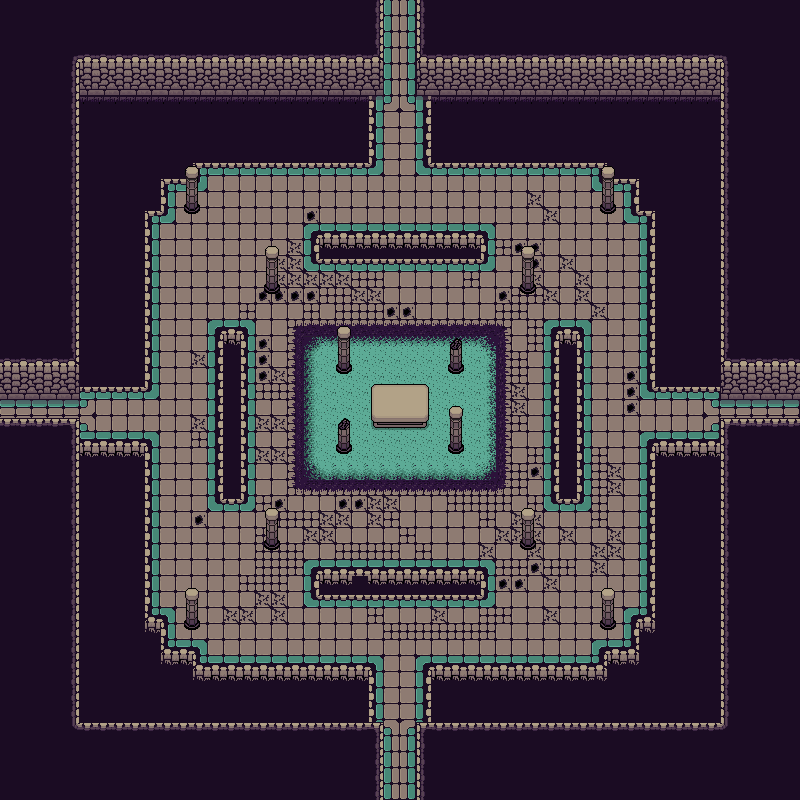
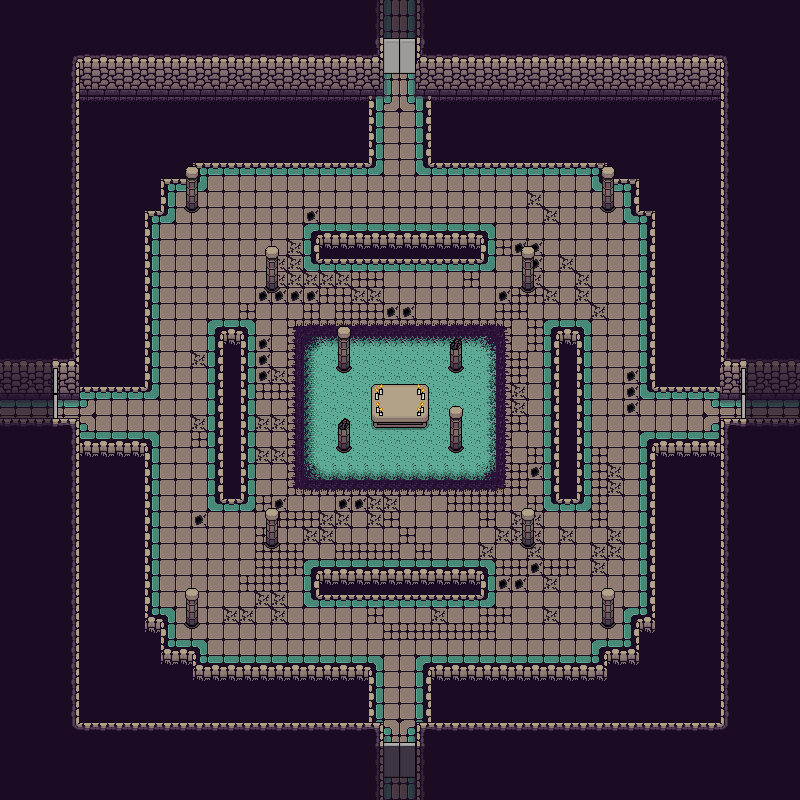
added big door and minor arena map changes

diff --git a/assets/ascedia_tileset.tsx b/assets/ascedia_tileset.tsx
@@ -1,4 +1,4 @@
 <?xml version="1.0" encoding="UTF-8"?>
-<tileset version="1.8" tiledversion="1.8.5" name="ascedia_tileset" tilewidth="16" tileheight="16" tilecount="324" columns="18">
- <image source="../../ascedia_tileset.png" width="288" height="288"/>
+<tileset version="1.8" tiledversion="1.8.5" name="ascedia_tileset" tilewidth="16" tileheight="16" tilecount="504" columns="18">
+ <image source="../../ascedia_tileset.png" width="288" height="448"/>
 </tileset>
